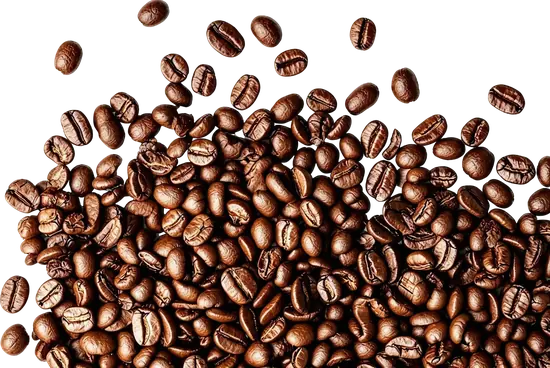
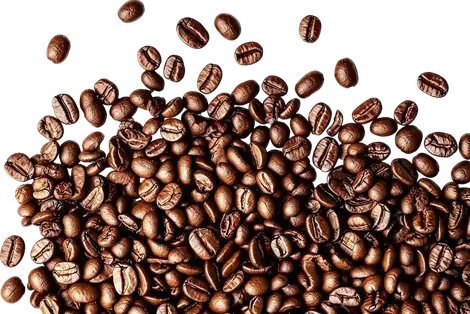
perf(hero,images,lcp): preloads responsivos do hero, otimizacao de imagens mobile e catalogo
Preload & Rede (LCP):
- Configura preloads condicionais por media query em index.html para a imagem de fundo do Hero:
  media="(max-width: 767px)" -> beans-bg-mobile.webp
  media="(min-width: 768px)" -> beans-bg.webp
- Remove preload incondicional de coffee-package.webp no head, eliminando download duplicado
  de imagem desktop em dispositivos moveis e liberando banda de rede imediata.

Imagens do Hero (Mobile):
- Redimensiona e recomprime beans-bg-mobile.webp para 470x315px (61 KB vs 81 KB anterior),
  otimizando diretamente o maior elemento de pintura (LCP).
- Redimensiona coffee-package-mobile.webp para 200x329px (19 KB vs 21 KB anterior).
- Recria coffee-cup-mobile.webp a partir da versao desktop com corte identico (150x114px, 5 KB),
  removendo espaco transparente superior excedente.

Imagens do Catalogo de Cafes:
- Otimiza e recomprime as 4 imagens de cafes para largura maxima de 400px com quality=80:
  geisha-especial.webp (23 KB vs 29 KB), mantiqueira-dourada.webp (16 KB vs 20 KB),
  flor-da-serra.webp (9.3 KB vs 13 KB), reserva-do-pouso.webp (3.2 KB vs 5 KB).
- Mantem 100% de consistencia com os tokens semanticos de cores e variaveis CSS.

diff --git a/src/index.html b/src/index.html
@@ -15,7 +15,8 @@
      -------------------------------------------------------------------------- -->
   <link rel="preload" href="/fonts/newsreader/newsreader-latin.woff2" as="font" type="font/woff2" crossorigin>
   <link rel="preload" href="/fonts/plus-jakarta-sans/plus-jakarta-sans-latin.woff2" as="font" type="font/woff2" crossorigin>
-  <link rel="preload" href="/images/hero/coffee-package.webp" as="image" type="image/webp" fetchpriority="high">
+  <link rel="preload" href="/images/hero/beans-bg-mobile.webp" as="image" type="image/webp" media="(max-width: 767px)" fetchpriority="high">
+  <link rel="preload" href="/images/hero/beans-bg.webp" as="image" type="image/webp" media="(min-width: 768px)" fetchpriority="high">
 
   <!-- --------------------------------------------------------------------------
      Metatags de SEO Primário e Indexação
